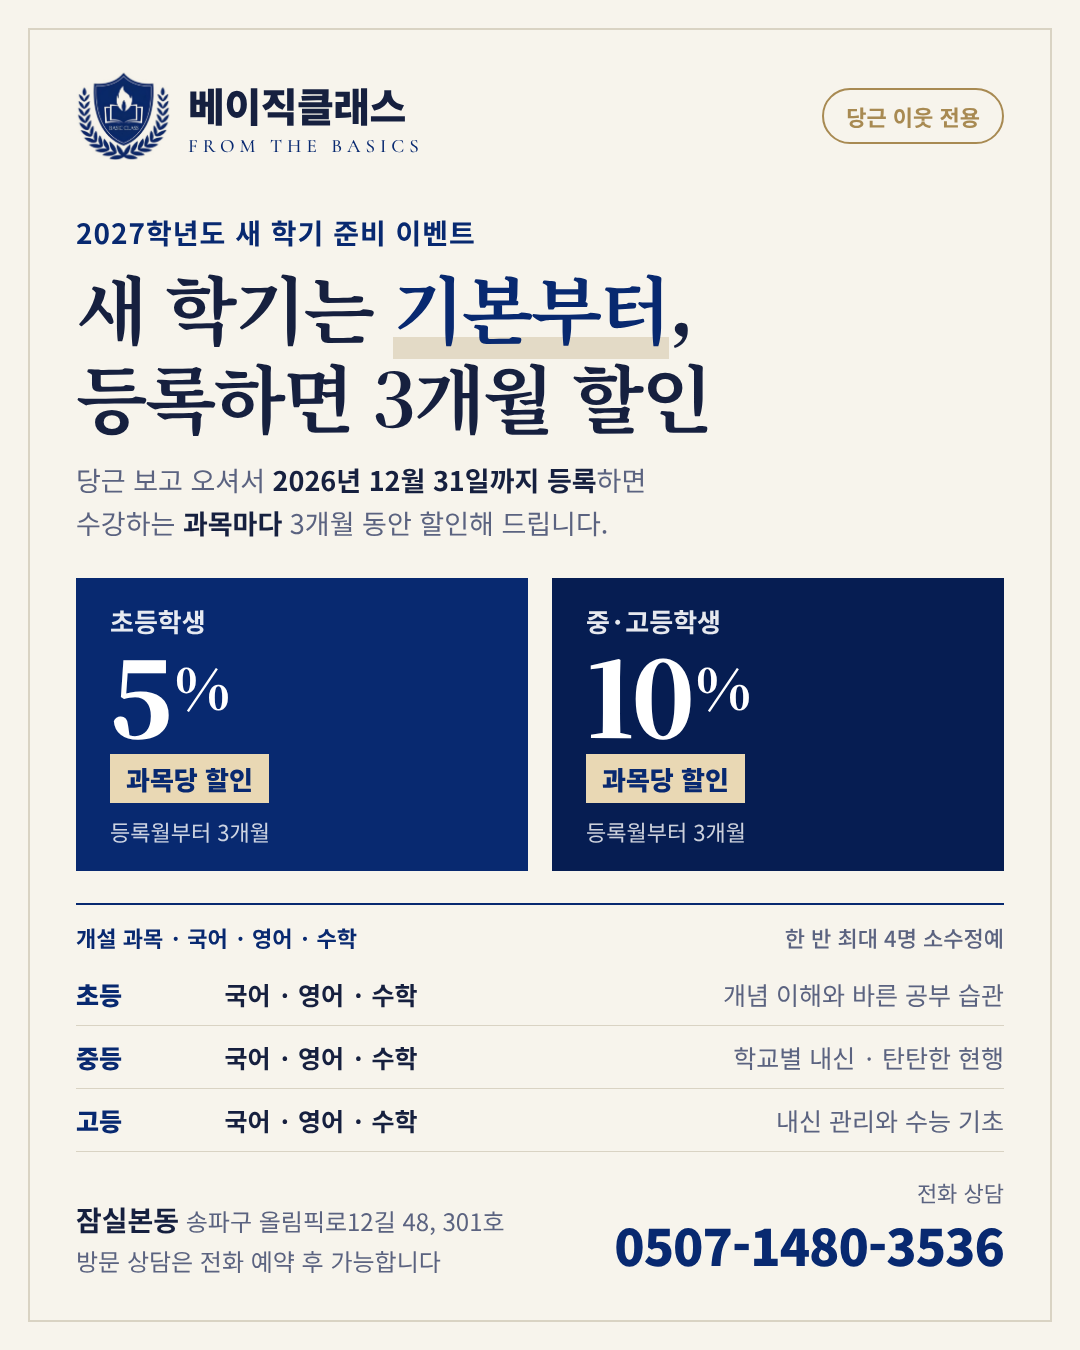
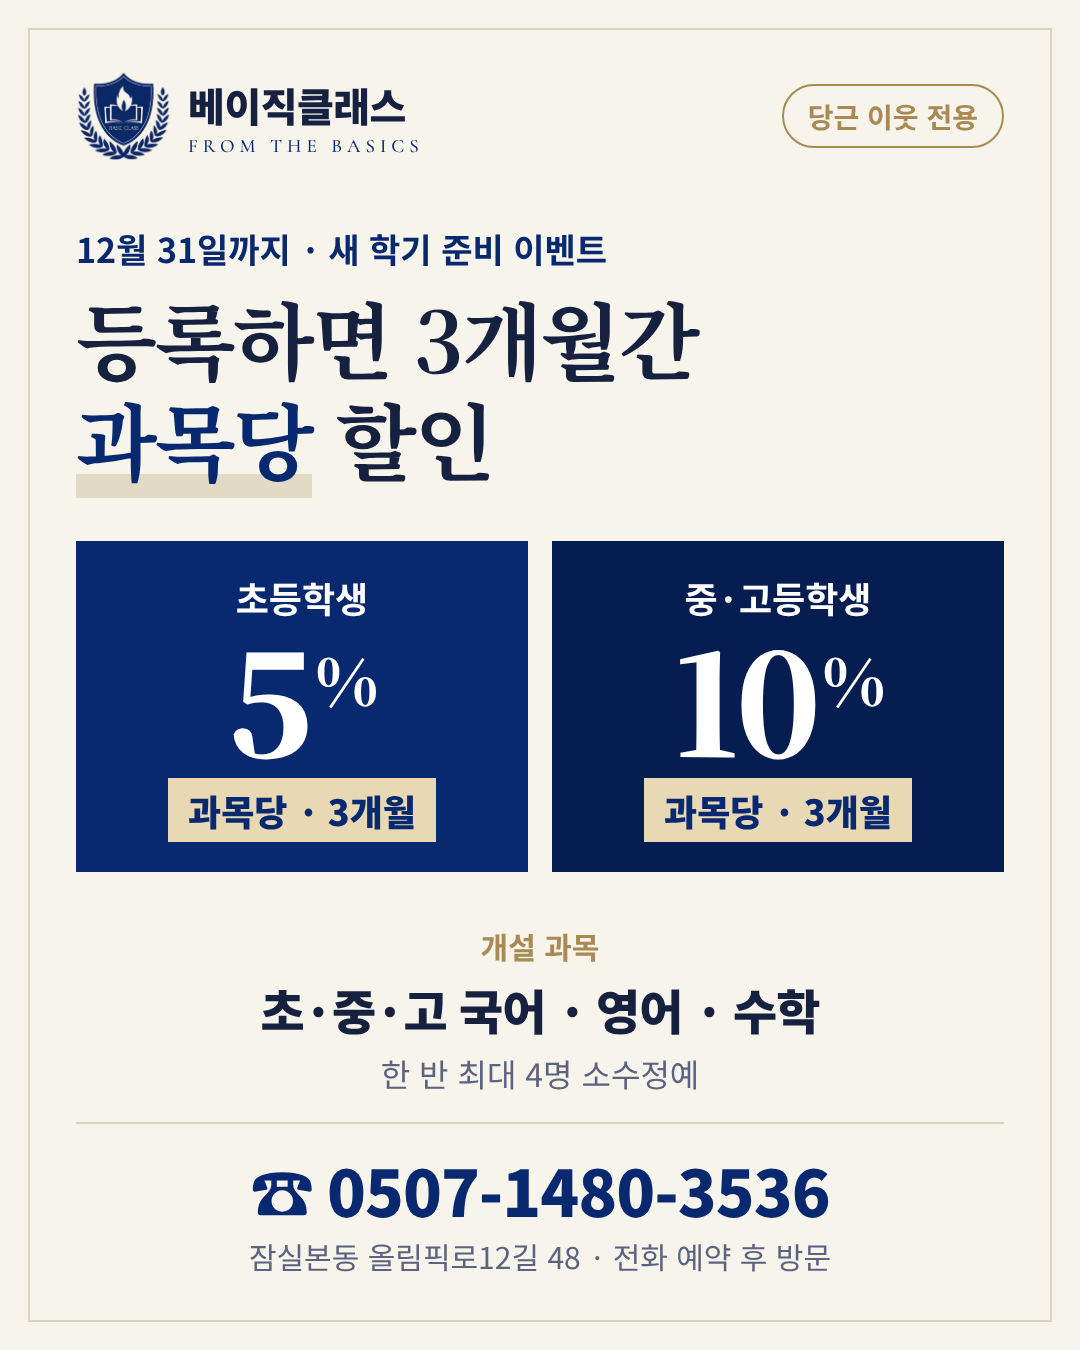
당근 이벤트 문구 모바일용으로 축약: 글감 일반 텍스트화, 포스터·쿠폰 글자 확대
Claude-Session: https://claude.ai/code/session_01WUCqnetPahfGrkxnyTByXR

diff --git a/academy-blog/daangn/daangn.html b/academy-blog/daangn/daangn.html
@@ -35,38 +35,28 @@
   .poster .brand b{font-size:40px}
   .poster .brand small{font-size:19px}
   .p-top{display:flex;justify-content:space-between;align-items:center}
-  .p-chip{font-size:22px;font-weight:700;color:var(--gold);border:2px solid var(--gold);padding:10px 22px;border-radius:999px}
+  .p-chip{font-size:28px;font-weight:700;color:var(--gold);border:2px solid var(--gold);padding:10px 24px;border-radius:999px}
 
-  .p-eyebrow{margin-top:52px;font-size:28px;font-weight:700;color:var(--navy);letter-spacing:1px}
-  .p-title{margin-top:10px;font-size:74px;line-height:1.2;font-weight:700;letter-spacing:-2.5px}
-  .p-title em{font-style:normal;color:var(--navy);box-shadow:inset 0 -22px 0 rgba(168,138,82,.25)}
-  .p-lead{margin-top:18px;font-size:27px;line-height:1.6;color:var(--muted)}
-  .p-lead b{color:var(--ink)}
+  .p-eyebrow{margin-top:64px;font-size:34px;font-weight:700;color:var(--navy)}
+  .p-title{margin-top:14px;font-size:84px;line-height:1.2;font-weight:700;letter-spacing:-2.5px}
+  .p-title em{font-style:normal;color:var(--navy);box-shadow:inset 0 -24px 0 rgba(168,138,82,.25)}
 
-  .tiers{margin-top:34px;display:flex;gap:24px}
-  .tier{flex:1;background:var(--navy);color:#fff;padding:24px 34px 24px;position:relative}
+  .tiers{margin-top:52px;display:flex;gap:24px}
+  .tier{flex:1;background:var(--navy);color:#fff;padding:30px 36px;text-align:center}
   .tier.mid{background:var(--navy-deep)}
-  .tier .who{font-size:26px;font-weight:700;opacity:.9}
-  .tier .pct{font-family:'Noto Serif KR',serif;font-weight:900;font-size:104px;line-height:1.05;letter-spacing:-3px}
-  .tier .pct sup{font-size:56px;vertical-align:top;position:relative;top:18px;margin-left:4px}
-  .tier .per{display:inline-block;margin-top:6px;font-size:26px;font-weight:900;color:var(--navy);background:var(--gold-soft);padding:6px 16px}
-  .tier .dur{margin-top:12px;font-size:22px;opacity:.8}
+  .tier .who{font-size:36px;font-weight:700}
+  .tier .pct{font-family:'Noto Serif KR',serif;font-weight:900;font-size:140px;line-height:1.05;letter-spacing:-3px}
+  .tier .pct sup{font-size:64px;vertical-align:top;position:relative;top:22px;margin-left:4px}
+  .tier .per{display:inline-block;margin-top:8px;font-size:36px;font-weight:900;color:var(--navy);background:var(--gold-soft);padding:6px 20px}
 
-  .grid{margin-top:32px;border-top:2px solid var(--navy)}
-  .grid .cap{font-size:22px;font-weight:700;color:var(--navy);padding:16px 0 10px;display:flex;justify-content:space-between}
-  .grid .cap span{font-weight:500;color:var(--muted)}
-  .grid table{width:100%;border-collapse:collapse;font-size:25px}
-  .grid td{border-bottom:1px solid var(--line);padding:13px 0;text-align:left}
-  .grid td:first-child{font-weight:900;color:var(--navy);width:16%}
-  .grid td:nth-child(2){font-weight:700;width:40%}
-  .grid td:last-child{color:var(--muted);text-align:right}
+  .subj{margin-top:52px;text-align:center}
+  .subj .k{font-size:30px;font-weight:700;color:var(--gold)}
+  .subj .v{margin-top:6px;font-size:48px;font-weight:900;letter-spacing:-1px}
+  .subj .s{margin-top:6px;font-size:32px;color:var(--muted)}
 
-  .p-foot{position:absolute;left:76px;right:76px;bottom:70px;display:flex;justify-content:space-between;align-items:flex-end}
-  .p-foot .when{font-size:24px;color:var(--muted);line-height:1.6}
-  .p-foot .when b{color:var(--ink);font-size:28px}
-  .p-foot .tel{text-align:right}
-  .p-foot .tel span{display:block;font-size:22px;color:var(--muted)}
-  .p-foot .tel strong{font-size:50px;font-weight:900;color:var(--navy);letter-spacing:-1px}
+  .p-foot{position:absolute;left:76px;right:76px;bottom:72px;text-align:center;border-top:2px solid var(--line);padding-top:30px}
+  .p-foot .tel{font-size:64px;font-weight:900;color:var(--navy);letter-spacing:-1px;line-height:1.1}
+  .p-foot .addr{margin-top:10px;font-size:30px;color:var(--muted)}
 
   /* ================= 쿠폰 1080×1080 ================= */
   .coupon{position:relative;width:1080px;height:1080px;background:#fff;padding:60px;isolation:isolate}
@@ -83,7 +73,7 @@
   .t-top .side{padding-bottom:22px}
   .t-top .side .per{display:inline-block;font-size:40px;font-weight:900;color:var(--navy);background:var(--gold-soft);padding:6px 18px}
   .t-top .side .dur{margin-top:12px;font-size:34px;font-weight:700}
-  .t-top .subj{margin-top:auto;font-size:26px;opacity:.85}
+  .t-top .subj{margin-top:auto;font-size:32px;opacity:.9;text-align:left}
   .divider{position:relative;height:0;border-top:4px dashed var(--line);margin:0 34px}
   .notch{position:absolute;top:560px;width:68px;height:68px;border-radius:50%;background:#fff;transform:translateY(-50%);z-index:3}
   .notch.l{left:-34px}.notch.r{right:-34px}
@@ -91,7 +81,7 @@
   .t-bot .brand .crest{--h:74px}
   .t-bot .brand b{font-size:34px}
   .t-bot .brand small{font-size:16px}
-  .t-bot .terms{margin-top:24px;font-size:22px;line-height:1.75;color:var(--muted)}
+  .t-bot .terms{margin-top:22px;font-size:28px;line-height:1.6;color:var(--muted)}
   .t-bot .terms b{color:var(--ink)}
   .t-bot .bottom{margin-top:auto;display:flex;justify-content:space-between;align-items:flex-end}
   .t-bot .tel{font-size:38px;font-weight:900;color:var(--navy)}
@@ -105,6 +95,7 @@
   // ---- 이벤트 조건 (여기만 고치면 됨) ----
   const EVENT = {
     deadline: '2026년 12월 31일',
+    short: '12월 31일',
     tel: '0507-1480-3536',
     tiers: {
       elem: { who:'초등학생', pct:5 },
@@ -116,32 +107,22 @@
 
   function poster() {
     const t = EVENT.tiers;
-    const row = (lv, note) => `<tr><td>${lv}</td><td>국어 · 영어 · 수학</td><td>${note}</td></tr>`;
+    const tier = (x, cls='') => `<div class="tier ${cls}"><div class="who">${x.who}</div>
+          <div class="pct">${x.pct}<sup>%</sup></div><div class="per">과목당 · 3개월</div></div>`;
     return `
     <div class="poster">
       <div class="p-top">${brand()}<div class="p-chip">당근 이웃 전용</div></div>
-      <div class="p-eyebrow">2027학년도 새 학기 준비 이벤트</div>
-      <div class="p-title serif">새 학기는 <em>기본부터</em>,<br>등록하면 3개월 할인</div>
-      <div class="p-lead">당근 보고 오셔서 <b>${EVENT.deadline}까지 등록</b>하면<br>수강하는 <b>과목마다</b> 3개월 동안 할인해 드립니다.</div>
-      <div class="tiers">
-        <div class="tier"><div class="who">${t.elem.who}</div>
-          <div class="pct">${t.elem.pct}<sup>%</sup></div>
-          <div class="per">과목당 할인</div><div class="dur">등록월부터 3개월</div></div>
-        <div class="tier mid"><div class="who">${t.mid.who}</div>
-          <div class="pct">${t.mid.pct}<sup>%</sup></div>
-          <div class="per">과목당 할인</div><div class="dur">등록월부터 3개월</div></div>
-      </div>
-      <div class="grid">
-        <div class="cap">개설 과목 · 국어 · 영어 · 수학<span>한 반 최대 4명 소수정예</span></div>
-        <table>
-          ${row('초등', '개념 이해와 바른 공부 습관')}
-          ${row('중등', '학교별 내신 · 탄탄한 현행')}
-          ${row('고등', '내신 관리와 수능 기초')}
-        </table>
+      <div class="p-eyebrow">${EVENT.short}까지 · 새 학기 준비 이벤트</div>
+      <div class="p-title serif">등록하면 3개월간<br><em>과목당</em> 할인</div>
+      <div class="tiers">${tier(t.elem)}${tier(t.mid, 'mid')}</div>
+      <div class="subj">
+        <div class="k">개설 과목</div>
+        <div class="v">초·중·고 국어 · 영어 · 수학</div>
+        <div class="s">한 반 최대 4명 소수정예</div>
       </div>
       <div class="p-foot">
-        <div class="when"><b>잠실본동</b> 송파구 올림픽로12길 48, 301호<br>방문 상담은 전화 예약 후 가능합니다</div>
-        <div class="tel"><span>전화 상담</span><strong>${EVENT.tel}</strong></div>
+        <div class="tel">☎ ${EVENT.tel}</div>
+        <div class="addr">잠실본동 올림픽로12길 48 · 전화 예약 후 방문</div>
       </div>
     </div>`;
   }
@@ -158,18 +139,17 @@
             <div class="pct">${t.pct}<sup>%</sup></div>
             <div class="side"><div class="per">과목당</div><div class="dur">3개월 할인</div></div>
           </div>
-          <div class="subj">국어 · 영어 · 수학 중 수강하는 과목마다 각각 적용</div>
+          <div class="subj">국 · 영 · 수 과목마다 각각 할인</div>
         </div>
         <div class="divider"></div>
         <div class="t-bot">
           ${brand()}
           <div class="terms">
-            <b>사용 조건</b> ${EVENT.deadline}까지 신규 등록 시 · 등록월부터 3개월간 적용<br>
-            상담 때 이 쿠폰 화면을 보여주세요 · 다른 할인과 중복 불가 · 현금 교환 불가
+            <b>${EVENT.short}까지 신규 등록 시</b><br>
+            상담 때 이 화면을 보여주세요 · 중복 할인 불가
           </div>
           <div class="bottom">
-            <div class="tel"><span>전화 상담 · 방문 예약</span>${EVENT.tel}</div>
-            <div class="no">2027 새 학기 준비 이벤트</div>
+            <div class="tel"><span>전화 상담</span>${EVENT.tel}</div>
           </div>
         </div>
         <div class="notch l"></div><div class="notch r"></div>

diff --git a/academy-blog/daangn/당근_글감.md b/academy-blog/daangn/당근_글감.md
@@ -2,79 +2,64 @@
 
 첨부 이미지 순서: ① `포스터_1080x1350.png` → ② `쿠폰_초등_5%.png` → ③ `쿠폰_중고등_10%.png`
 
----
-
-## 제목 (아래 중 하나)
-
-- **[잠실본동] 2027 새 학기 준비, 베이직클래스 등록하면 과목당 최대 10% 할인**
-- 잠실본동 초·중·고 국영수 소수정예 학원, 당근 이웃께만 드리는 새 학기 할인
-- 한 반 최대 4명, 베이직클래스 2027 새 학기 준비 이벤트 (12월 31일까지)
+> 당근 소식은 표나 굵은 글씨가 적용되지 않는 **일반 텍스트**입니다. 아래 회색 상자 안의 내용을 그대로 복사해 붙여넣으세요.
+> 휴대폰 화면 기준으로 한 줄이 짧게 끊기도록 줄을 나눴습니다.
 
 ---
 
-## 본문 (원장 1인칭)
+## 제목
 
-안녕하세요, 잠실본동 올림픽로12길에서 아이들을 가르치고 있는 **베이직클래스 원장**입니다.
+```
+[잠실본동] 새 학기 준비, 과목당 최대 10% 할인
+```
 
-어느덧 2026년도 두 달이 채 남지 않았습니다.
-학년이 바뀌는 겨울은 지난 1년 동안 생긴 빈틈을 메우고 새 학년을 맞을 준비를 하기에 가장 좋은 시기입니다.
-그래서 당근 이웃분들께 **2027 새 학기 준비 이벤트**를 준비했습니다.
+## 본문
 
-### 🎁 당근 이웃 전용 혜택
+```
+안녕하세요, 잠실본동 베이직클래스 원장입니다.
 
-**2026년 12월 31일까지** 당근을 보고 오셔서 등록하시면, 등록한 달부터 **3개월 동안 수강 과목마다** 할인해 드립니다.
+새 학기를 준비하는 당근 이웃분들께
+작은 혜택을 드립니다.
 
-| 대상 | 할인 | 기간 |
-|---|---|---|
-| 초등학생 | **과목당 5%** | 등록월부터 3개월 |
-| 중·고등학생 | **과목당 10%** | 등록월부터 3개월 |
+━━━━━━━━━━
+🎁 12월 31일까지 등록 시
+3개월간 '과목당' 할인
 
-✔ **"과목당"이라는 점이 중요합니다.**
-한 과목만 들으면 그 과목이 할인되고, 국어와 수학처럼 두 과목을 들으면 **두 과목 모두** 할인됩니다. 국어·영어·수학 세 과목을 모두 들어도 과목마다 할인이 적용됩니다.
+· 초등학생  5%
+· 중·고등학생  10%
+━━━━━━━━━━
 
-### 📚 개설 과목 (국어 · 영어 · 수학)
+두 과목을 들으면 두 과목 모두,
+세 과목이면 세 과목 모두 할인됩니다.
 
-- **초등부** 국어 · 영어 · 수학: 개념을 제대로 이해하고 바른 공부 습관을 들이는 데 집중합니다.
-- **중등부** 국어 · 영어 · 수학: 학교별 시험 범위에 맞춘 내신 대비와 탄탄한 현행 학습을 합니다.
-- **고등부** 국어 · 영어 · 수학: 내신을 관리하면서 수능의 기초를 함께 다집니다.
+📚 개설 과목
+초·중·고 국어 · 영어 · 수학
 
-### 👩🏫 베이직클래스는요
+✔ 한 반 최대 4명 소수정예
+✔ 학교별 내신 대비
 
-- **한 반 최대 4명** 소수정예로 운영합니다. 작은 학원이라 가능한 인원이고, 수업 중에 아이 한 명 한 명이 어디서 막히는지 바로 보입니다.
-- 학원 이름처럼 **기본부터** 바로 세우고, 이해했는지 **끝까지** 확인합니다.
-- 학교 진도와 시험 일정에 맞춰 수업합니다.
+☎ 상담 0507-1480-3536
+전화 예약 후 방문해 주세요.
+상담 때 쿠폰 이미지를 보여주시면 됩니다.
 
-### ☎ 참여 방법
+📍 송파구 올림픽로12길 48, 301호
 
-1. **전화로 상담을 예약**해 주세요. 수업 중에는 방문 상담이 어려워 예약 후 방문을 부탁드립니다.
-2. 상담 때 **이 글이나 쿠폰 이미지를 보여주세요.** "당근 보고 왔어요" 한마디도 괜찮습니다.
-3. 12월 31일까지 등록하시면 등록한 달부터 3개월 동안 할인이 적용됩니다.
-
-📞 **상담 전화 0507-1480-3536**
-📍 서울 송파구 올림픽로12길 48, 301호 (잠실본동)
-
-아이에게 맞는 반과 시간은 상담 때 학년과 학교 진도를 여쭤보고 안내해 드리겠습니다.
-새 학기를 차분하게 준비하고 싶은 이웃분들의 연락 기다리겠습니다. 감사합니다.
-
-**베이직클래스 원장 드림**
-
-### 유의사항
-
-- 2026년 12월 31일까지 **신규 등록**하는 학생에게만 적용됩니다.
-- 할인은 등록한 달부터 3개월 동안 적용되며, 수강 과목마다 각각 적용됩니다.
-- 다른 할인 이벤트와 중복으로 받을 수 없습니다.
+※ 신규 등록 · 다른 할인과 중복 불가
+```
 
 ---
 
-## 짧은 버전 (당근 광고·홍보용 문구, 2~3줄)
+## 짧은 버전 (광고 문구용)
 
-> 잠실본동 베이직클래스 | 초·중·고 국영수 · 한 반 최대 4명
-> 12/31까지 당근 보고 등록하면 3개월간 **과목당** 할인, 초등 5% · 중고등 10%
-> 📞 0507-1480-3536 (전화 예약 후 방문 상담)
+```
+잠실본동 베이직클래스 | 초·중·고 국영수
+12/31까지 등록 시 3개월간 과목당 할인
+초등 5% · 중고등 10% ☎ 0507-1480-3536
+```
 
 ---
 
-## 원장님 확인 사항 (게시 전 삭제)
+## 원장님 확인 사항 (게시하지 않음)
 
 - [ ] **채팅 문의 설정**: 당근 비즈프로필은 기본으로 채팅 문의를 받습니다. 상담을 전화로만 받으신다면 채팅 응답 설정을 끄거나, 프로필 소개에 "상담은 전화로만 받습니다"라고 적어 두십시오.
 - [ ] **당근 쿠폰 기능**: 비즈프로필에서 쿠폰을 발행할 수 있다면 같은 조건으로 함께 발행하십시오. 쿠폰을 받은 수와 사용한 수가 집계되어 당근을 보고 온 학생 수를 셀 수 있습니다. 메뉴 위치는 당근 앱에서 확인이 필요합니다.
